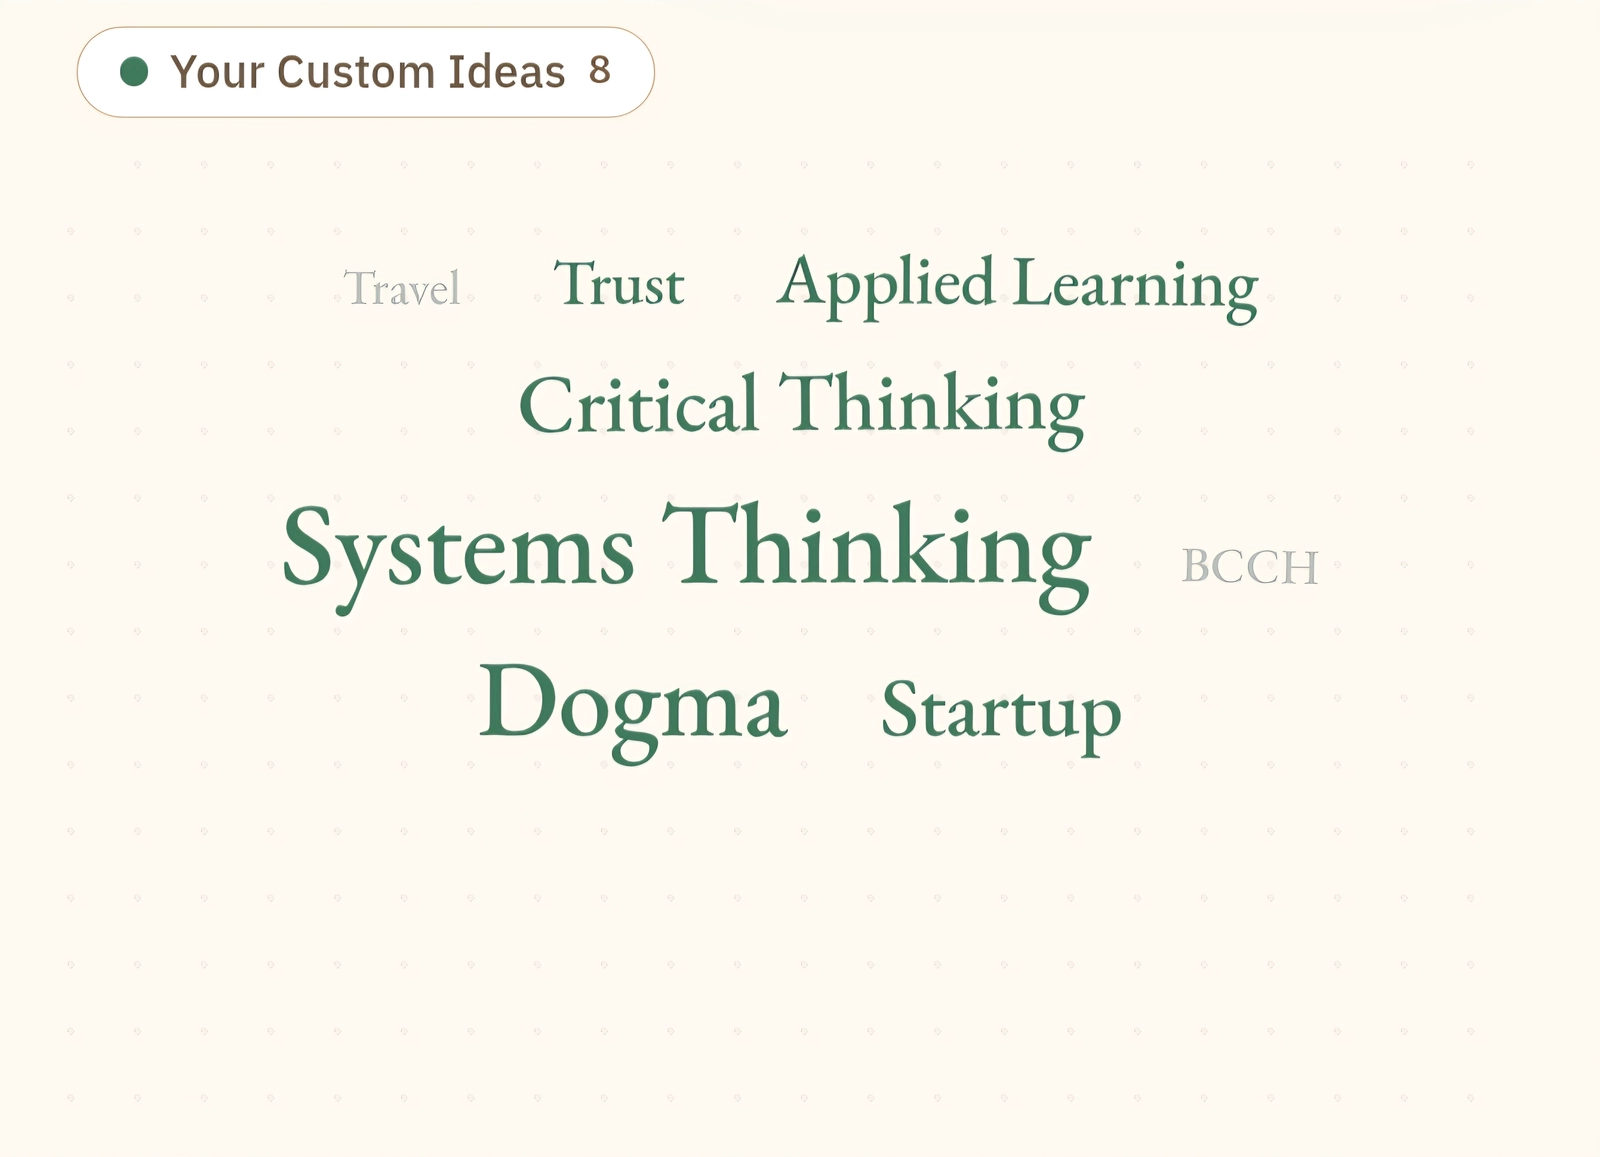
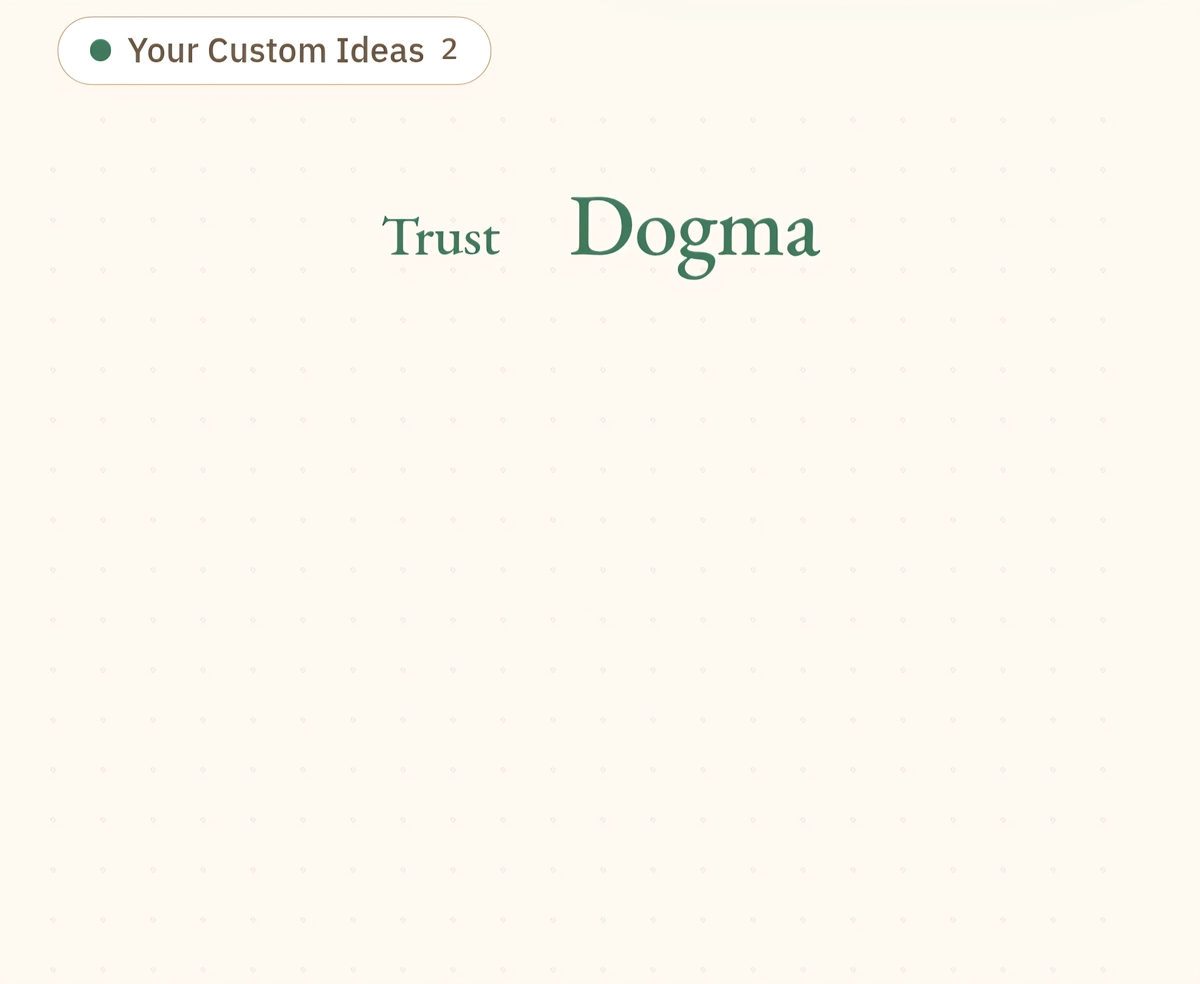
feat(lp): regenerate Commonplace carousel for the contemporary canon (SUR-602)
The carousel's idea-cloud screenshots and their alt/caption strings were
captured from the old classical canon. SUR-597 swapped that canon (102→87
leaves, restructured into 4 tops · 8 branches); SUR-600 fixed only the
text-only copy and left the carousel for asset regeneration.

Recapture against the live 87-idea canon — one cloud per top (Inner Life,
Thinking & Doing, Living Together, The World) plus the custom cloud — and
relabel:

- Replace commonplace-truth/justice/cosmos.webp with inner-life,
  thinking-doing, living-together, world (custom refreshed).
- Rewrite SLIDES to 5 entries: top-name captions; alt text faithfully
  describes each new image (top, its two branches, prominent visible ideas)
  so the alt no longer names dropped ideas.
- Update the carousel spec to the 5-slide contract (counts, end-of-track
  index, focus-walk hops, live-region caption).

Build green; carousel.spec.ts passes on chromium + mobile-chrome.

diff --git a/tests/carousel.spec.ts b/tests/carousel.spec.ts
@@ -1,9 +1,9 @@
 /**
  * Commonplace carousel tests [SUR-531].
  *
- * The third "How it works" step is a manual, swipe-able carousel of four
+ * The third "How it works" step is a manual, swipe-able carousel of five
  * idea-tree spheres (CommonplaceCarousel.astro). These tests pin the public
- * contract: it renders four slides + dots, the active state tracks dot/arrow/
+ * contract: it renders five slides + dots, the active state tracks dot/arrow/
  * keyboard navigation, the ends disable their arrows, it stays navigable under
  * reduced motion, and the restructured nav anchor resolves to the new
  * `#how-it-works` section (the old `#what-is-surfc` band is gone).
@@ -12,7 +12,7 @@
  * sets synchronously on click/keydown — so they don't race the smooth-scroll
  * animation or the IntersectionObserver that only syncs manual swipes.
  *
- * Image rendering is intentionally NOT asserted: the four screenshots live in
+ * Image rendering is intentionally NOT asserted: the five screenshots live in
  * public/media and may be absent in a fresh checkout; the carousel structure
  * and behaviour stand on their own.
  */
@@ -20,11 +20,11 @@
 import { expect, test } from './fixtures'
 
 test.describe('Commonplace carousel (SUR-531)', () => {
-  test('renders four framed slides, four dots, and both arrows on the LP', async ({ page }) => {
+  test('renders five framed slides, five dots, and both arrows on the LP', async ({ page }) => {
     await page.goto('/')
     await expect(page.locator('[data-carousel]')).toBeVisible()
-    await expect(page.locator('[data-carousel-slide]')).toHaveCount(4)
-    await expect(page.locator('[data-carousel-dot]')).toHaveCount(4)
+    await expect(page.locator('[data-carousel-slide]')).toHaveCount(5)
+    await expect(page.locator('[data-carousel-dot]')).toHaveCount(5)
     await expect(page.locator('[data-carousel-prev]')).toBeVisible()
     await expect(page.locator('[data-carousel-next]')).toBeVisible()
     await expect(page.locator('#commonplace')).toContainText('Your Commonplace')
@@ -46,8 +46,8 @@ test.describe('Commonplace carousel (SUR-531)', () => {
     await expect(dots.nth(0)).toHaveAttribute('aria-current', 'false')
 
     // Jump straight to the last sphere via its dot.
-    await dots.nth(3).click()
-    await expect(dots.nth(3)).toHaveAttribute('aria-current', 'true')
+    await dots.nth(4).click()
+    await expect(dots.nth(4)).toHaveAttribute('aria-current', 'true')
     await expect(page.locator('[data-carousel-next]')).toBeDisabled()
     await expect(page.locator('[data-carousel-prev]')).toBeEnabled()
   })
@@ -90,7 +90,8 @@ test.describe('Commonplace carousel (SUR-531)', () => {
   test('does not strand focus when an end arrow disables itself', async ({ page }) => {
     await page.goto('/')
     const next = page.locator('[data-carousel-next]')
-    // Walk to the last slide via the Next button itself (3 hops from slide 0).
+    // Walk to the last slide via the Next button itself (4 hops from slide 0).
+    await next.click()
     await next.click()
     await next.click()
     await next.click()
@@ -102,7 +103,7 @@ test.describe('Commonplace carousel (SUR-531)', () => {
   test('announces the active sphere via a polite live region', async ({ page }) => {
     await page.goto('/')
     await page.locator('[data-carousel-next]').click()
-    await expect(page.locator('[data-carousel-live]')).toContainText('Liberty · Equality · Justice')
+    await expect(page.locator('[data-carousel-live]')).toContainText('Thinking & Doing')
   })
 
   test('shows a captioned fallback when an idea-cloud image is missing', async ({ page }) => {